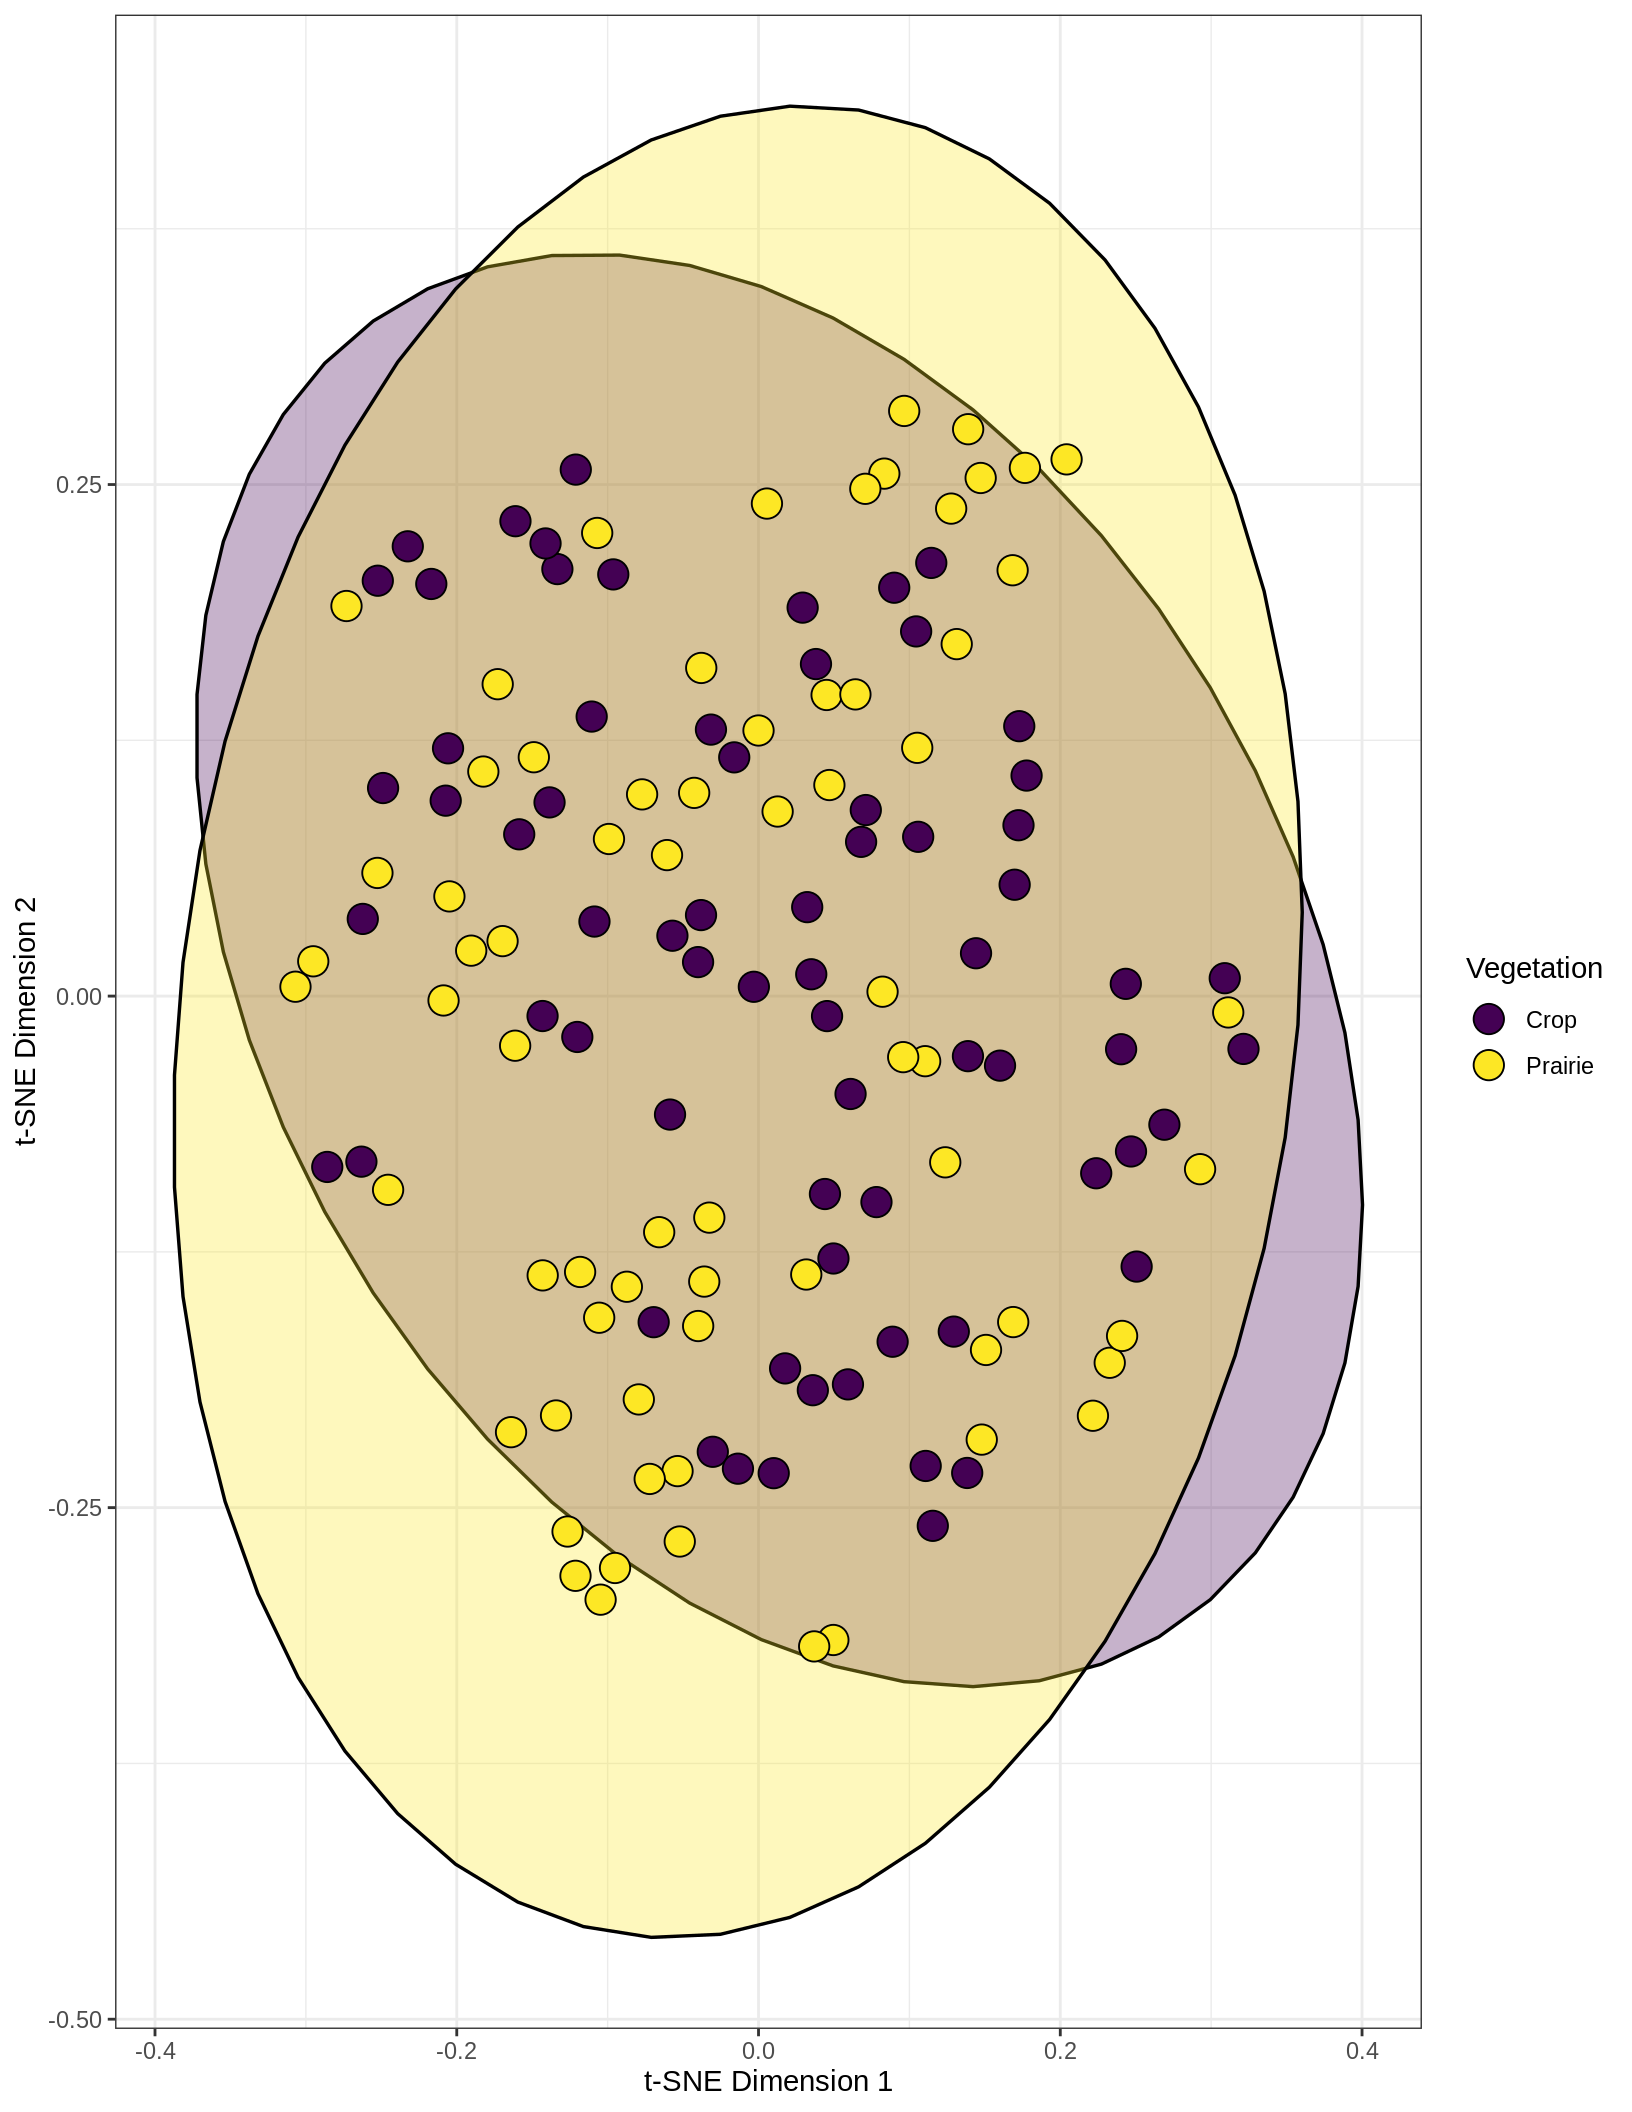
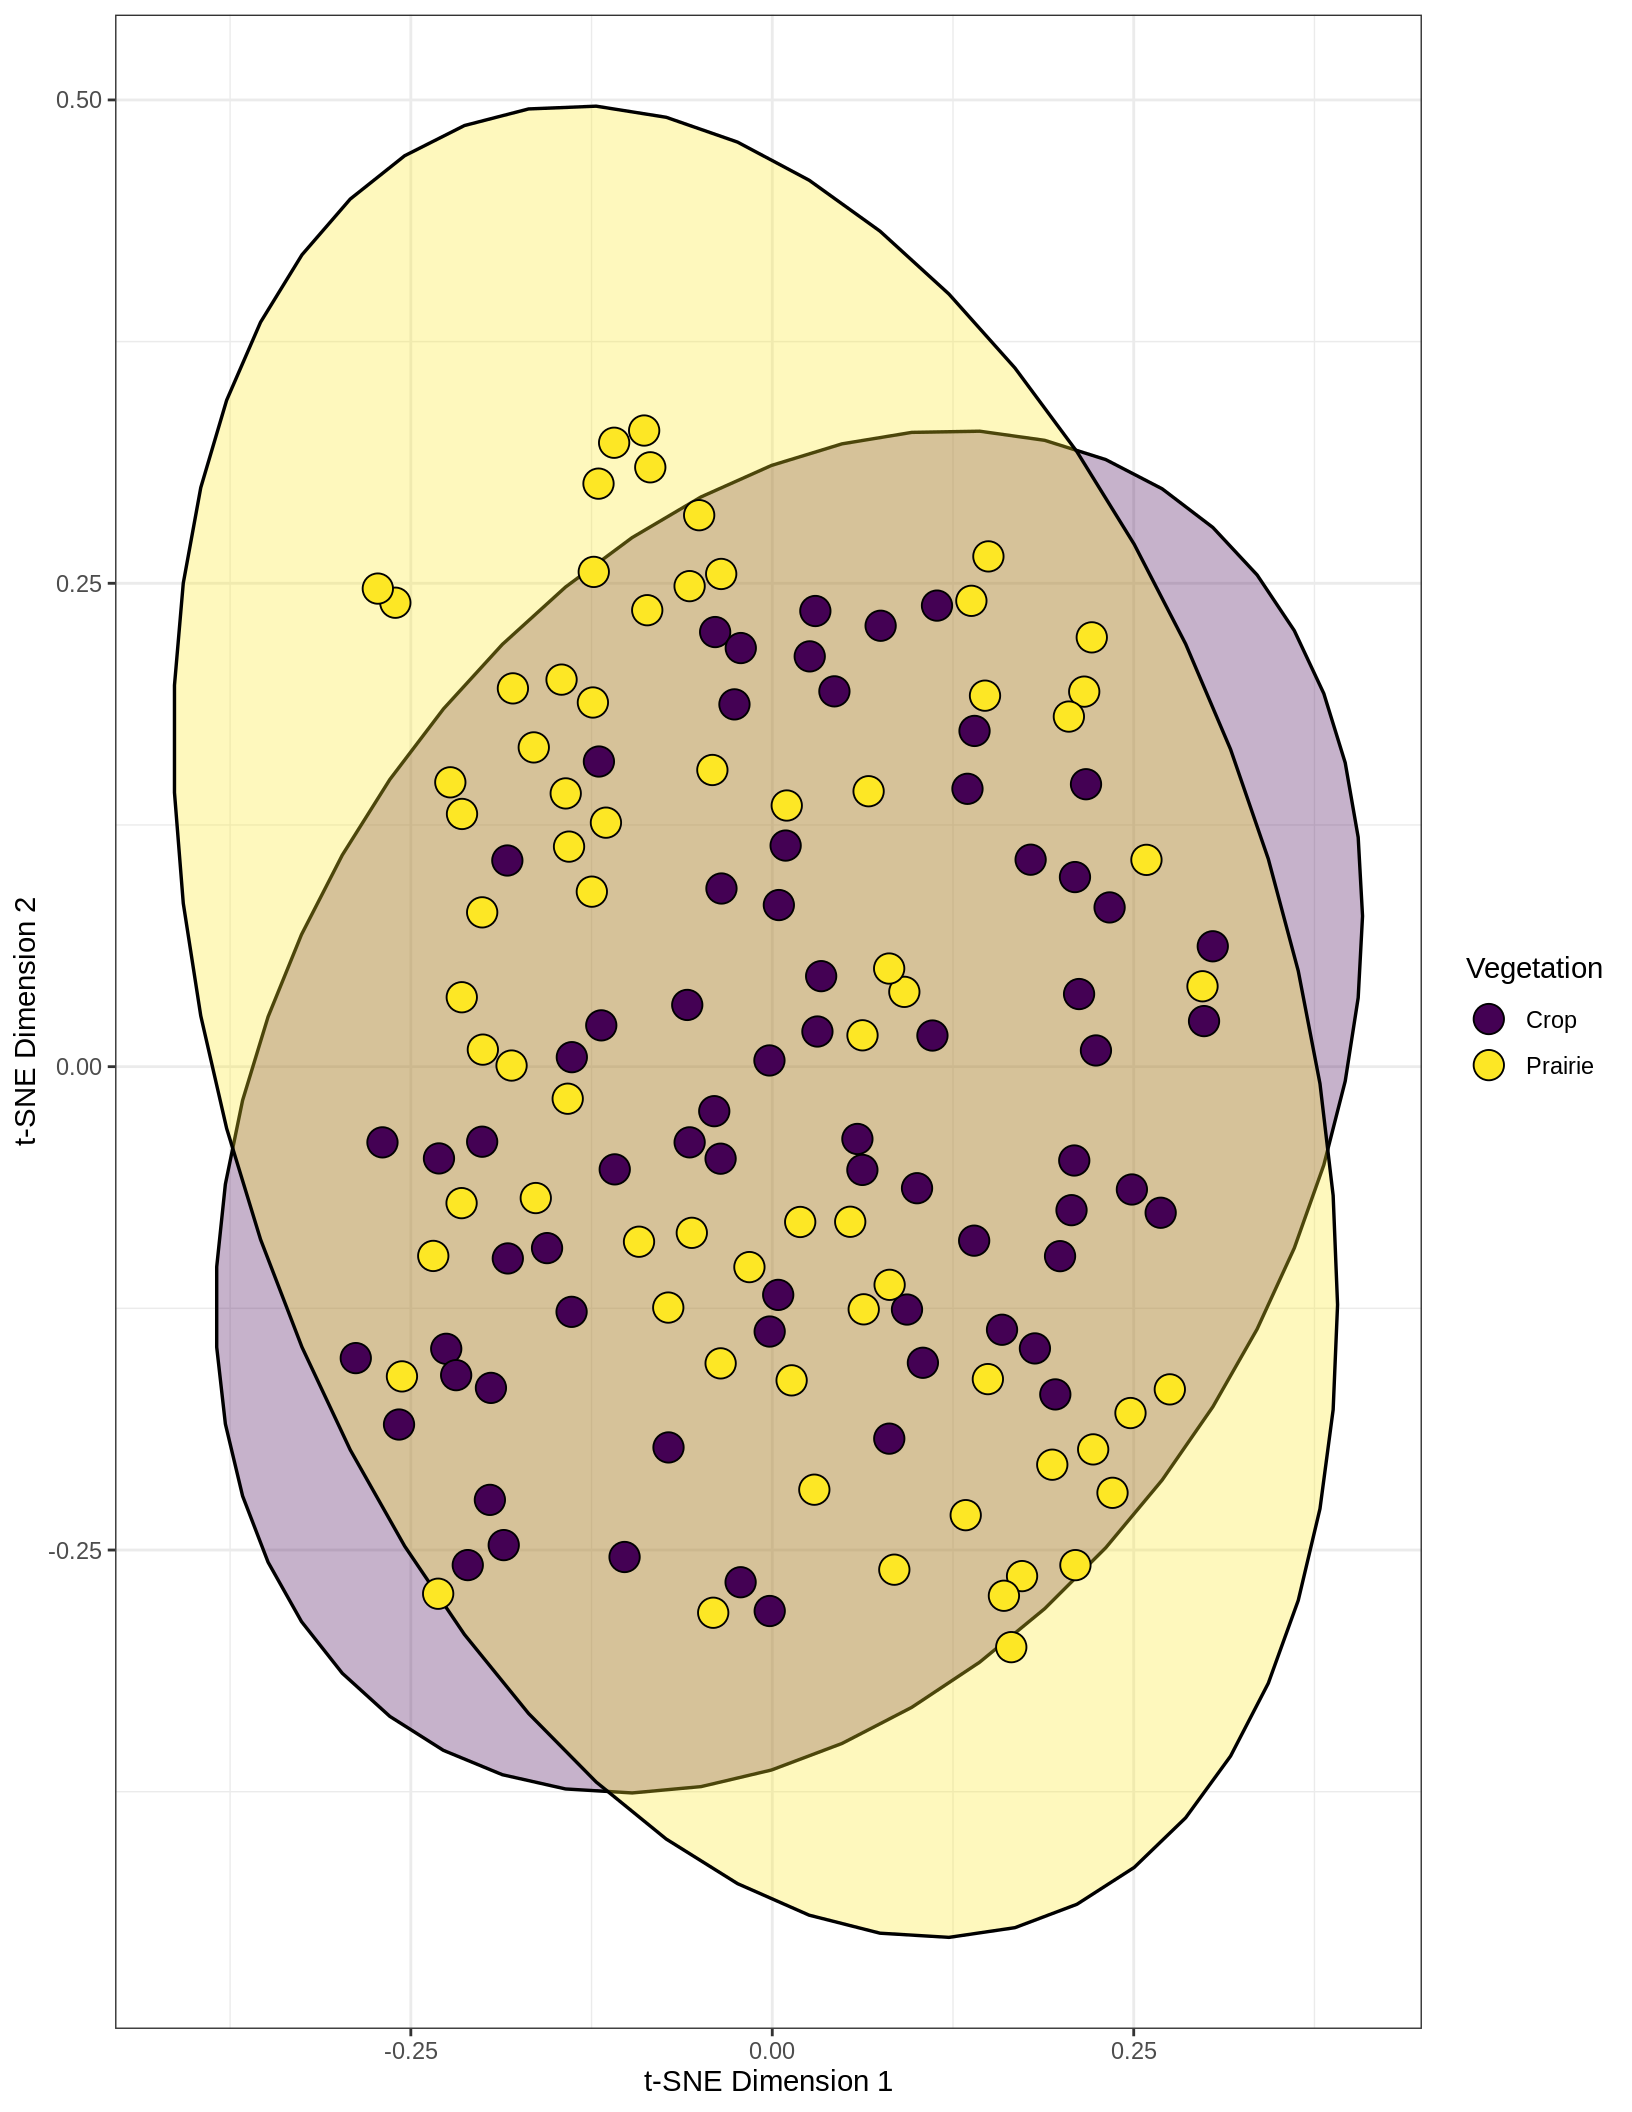
ordination work

diff --git a/docs/ordinations.html b/docs/ordinations.html
@@ -431,12 +431,12 @@ div.tocify {
 </div>
 
 
-<pre><code>## ── Attaching packages ──────────────────────────────────── tidyverse 1.2.1 ──</code></pre>
+<pre><code>## ── Attaching packages ─────────────────────────────────── tidyverse 1.2.1 ──</code></pre>
 <pre><code>## ✔ ggplot2 3.2.1     ✔ purrr   0.3.2
 ## ✔ tibble  2.1.3     ✔ dplyr   0.8.3
 ## ✔ tidyr   0.8.3     ✔ stringr 1.4.0
 ## ✔ readr   1.3.1     ✔ forcats 0.4.0</code></pre>
-<pre><code>## ── Conflicts ─────────────────────────────────────── tidyverse_conflicts() ──
+<pre><code>## ── Conflicts ────────────────────────────────────── tidyverse_conflicts() ──
 ## ✖ dplyr::filter() masks stats::filter()
 ## ✖ dplyr::lag()    masks stats::lag()</code></pre>
 <pre><code>## Loading required package: viridisLite</code></pre>
@@ -462,13 +462,15 @@ rownames(all_data) &lt;- all_data$id
 sample_data(phy) &lt;- all_data</code></pre>
 <div id="measuring-differences-in-bacterial-composition" class="section level1">
 <h1>Measuring differences in bacterial composition</h1>
+<div id="depth-1" class="section level2">
+<h2>Depth 1</h2>
 <p>Visualizing with ordinations is one method of describing bacterial community variations, similarity, and dissimilarity.</p>
 <p>The first question to ask is if crop soils are different from prairie soils, we will look at depth one of “no_manure_strip” treatment. This question is obviously more focused on elucidating the differences in crop and prairie in agroecosystems with PFS recently planted. This does not consider manure treatment.</p>
 <pre class="r"><code># Subset to desired samples and remove ASVs observed once
 PvCd1 &lt;- subset_samples(phy, matrix == &quot;soil&quot; &amp; treatment == &quot;no_manure_strip&quot; &amp; depth == &quot;d1&quot; &amp; !in_plot_location == &quot;s5&quot;) %&gt;%
   filter_taxa(function(x) sum(x) &gt;= 1, T)</code></pre>
-<div id="pcoa-with-bray" class="section level2">
-<h2>PCoA with bray</h2>
+<div id="pcoa-with-bray" class="section level3">
+<h3>PCoA with bray</h3>
 <p>Calculate dissimilarity between soil vegetation samples from depth 1 of no_manure_strip and plot the ordination using “bray-curtis”</p>
 <pre class="r"><code>phy.ord.bray &lt;- ordinate(PvCd1, method = &quot;PCoA&quot;, distance = &quot;bray&quot;)
 plot_ordination(PvCd1, phy.ord.bray, color = &quot;Vegetation&quot;) + 
@@ -493,8 +495,8 @@ plot_ordination(PvCd1, phy.ord.bray, color = &quot;Vegetation&quot;) +
 ## ---
 ## Signif. codes:  0 &#39;***&#39; 0.001 &#39;**&#39; 0.01 &#39;*&#39; 0.05 &#39;.&#39; 0.1 &#39; &#39; 1</code></pre>
 </div>
-<div id="tsne-with-bray" class="section level2">
-<h2>tsne with bray</h2>
+<div id="tsne-with-bray" class="section level3">
+<h3>tsne with bray</h3>
 <pre class="r"><code>tsne_phyloseq(PvCd1, treatment = c(&#39;Vegetation&#39;), perplexity = 10, circle = TRUE, colors = &#39;default&#39;) +
   scale_fill_viridis(discrete = T, option = &quot;viridis&quot;) + ggplot2::theme_bw() +
   guides(fill=guide_legend(title=&quot;Vegetation&quot;))</code></pre>
@@ -502,8 +504,8 @@ plot_ordination(PvCd1, phy.ord.bray, color = &quot;Vegetation&quot;) +
 ## which will replace the existing scale.</code></pre>
 <p><img src="ordinations_files/figure-html/unnamed-chunk-5-1.png" width="816" /></p>
 </div>
-<div id="different-distance-matrices" class="section level2">
-<h2>Different distance matrices</h2>
+<div id="different-distance-matrices" class="section level3">
+<h3>Different distance matrices</h3>
 <p>Hellinger transformation using vegan, this transformation gives low weights to variables with low counts and many zeros. The transfromation itself comprises dividing each value in a data matrix by its row sum, and taking the square root of the quotient. More information on this can be found here: <a href="https://mb3is.megx.net/gustame/reference/transformations">GUSTA ME</a></p>
 <pre class="r"><code># source functions
 # contains function for converting to vegan OTU table
@@ -531,6 +533,73 @@ plot_ordination(PvCd1, ord.dis, color = &quot;Vegetation&quot;) +
 ## Total      137    62.839                 1.00000           
 ## ---
 ## Signif. codes:  0 &#39;***&#39; 0.001 &#39;**&#39; 0.01 &#39;*&#39; 0.05 &#39;.&#39; 0.1 &#39; &#39; 1</code></pre>
+</div>
+</div>
+<div id="depth-2" class="section level2">
+<h2>Depth 2</h2>
+<pre class="r"><code># Subset to desired samples and remove ASVs observed once
+PvCd2 &lt;- subset_samples(phy, matrix == &quot;soil&quot; &amp; treatment == &quot;no_manure_strip&quot; &amp; depth == &quot;d2&quot; &amp; !in_plot_location == &quot;s5&quot;) %&gt;%
+  filter_taxa(function(x) sum(x) &gt;= 1, T)</code></pre>
+<div id="pcoa-with-bray-1" class="section level3">
+<h3>PCoA with bray</h3>
+<pre class="r"><code>phy.ord.bray2 &lt;- ordinate(PvCd2, method = &quot;PCoA&quot;, distance = &quot;bray&quot;)
+plot_ordination(PvCd2, phy.ord.bray2, color = &quot;Vegetation&quot;) + 
+  stat_ellipse(geom = &quot;polygon&quot;, type = &quot;norm&quot;, alpha = 0.1, aes(fill = Vegetation)) +
+  scale_colour_viridis_d() + ggplot2::theme_bw() +
+  guides(fill=guide_legend(title=&quot;Vegetation&quot;))</code></pre>
+<p><img src="ordinations_files/figure-html/unnamed-chunk-9-1.png" width="816" /></p>
+<pre class="r"><code>adonis(phyloseq::distance(PvCd2, method = &quot;bray&quot;) ~ Vegetation, data = data.frame(sample_data(PvCd2)))</code></pre>
+<pre><code>## 
+## Call:
+## adonis(formula = phyloseq::distance(PvCd2, method = &quot;bray&quot;) ~      Vegetation, data = data.frame(sample_data(PvCd2))) 
+## 
+## Permutation: free
+## Number of permutations: 999
+## 
+## Terms added sequentially (first to last)
+## 
+##             Df SumsOfSqs MeanSqs F.Model      R2 Pr(&gt;F)    
+## Vegetation   1    0.7559 0.75589  4.4708 0.03052  0.001 ***
+## Residuals  142   24.0082 0.16907         0.96948           
+## Total      143   24.7641                 1.00000           
+## ---
+## Signif. codes:  0 &#39;***&#39; 0.001 &#39;**&#39; 0.01 &#39;*&#39; 0.05 &#39;.&#39; 0.1 &#39; &#39; 1</code></pre>
+</div>
+<div id="tsne-with-bray-1" class="section level3">
+<h3>tsne with bray</h3>
+<pre class="r"><code>tsne_phyloseq(PvCd2, treatment = c(&#39;Vegetation&#39;), perplexity = 10, circle = TRUE, colors = &#39;default&#39;) +
+  scale_fill_viridis(discrete = T, option = &quot;viridis&quot;) + ggplot2::theme_bw() +
+  guides(fill=guide_legend(title=&quot;Vegetation&quot;))</code></pre>
+<pre><code>## Scale for &#39;fill&#39; is already present. Adding another scale for &#39;fill&#39;,
+## which will replace the existing scale.</code></pre>
+<p><img src="ordinations_files/figure-html/unnamed-chunk-10-1.png" width="816" /></p>
+</div>
+<div id="hellinger-transformed-pca-on-depth-2" class="section level3">
+<h3>Hellinger transformed PCA on depth 2</h3>
+<pre class="r"><code>dis2 &lt;- vegdist(decostand(veganotu(PvCd2), &quot;hell&quot;), &quot;euclidean&quot;)
+ord.dis2 &lt;- ordinate(PvCd2, method = &quot;RDA&quot;, distance = dis2)
+plot_ordination(PvCd2, ord.dis2, color = &quot;Vegetation&quot;) + 
+  stat_ellipse(geom = &quot;polygon&quot;, type = &quot;norm&quot;, alpha = 0.1, aes(fill = Vegetation)) +
+  scale_colour_viridis_d() + ggplot2::theme_bw() +
+  guides(fill=guide_legend(title=&quot;Vegetation&quot;))</code></pre>
+<p><img src="ordinations_files/figure-html/unnamed-chunk-11-1.png" width="816" /></p>
+<pre class="r"><code>adonis(dis2 ~ Vegetation, data = data.frame(sample_data(PvCd2)))</code></pre>
+<pre><code>## 
+## Call:
+## adonis(formula = dis2 ~ Vegetation, data = data.frame(sample_data(PvCd2))) 
+## 
+## Permutation: free
+## Number of permutations: 999
+## 
+## Terms added sequentially (first to last)
+## 
+##             Df SumsOfSqs MeanSqs F.Model      R2 Pr(&gt;F)    
+## Vegetation   1     1.475 1.47531  3.4601 0.02379  0.001 ***
+## Residuals  142    60.546 0.42638         0.97621           
+## Total      143    62.021                 1.00000           
+## ---
+## Signif. codes:  0 &#39;***&#39; 0.001 &#39;**&#39; 0.01 &#39;*&#39; 0.05 &#39;.&#39; 0.1 &#39; &#39; 1</code></pre>
+</div>
 </div>
 </div>
 
